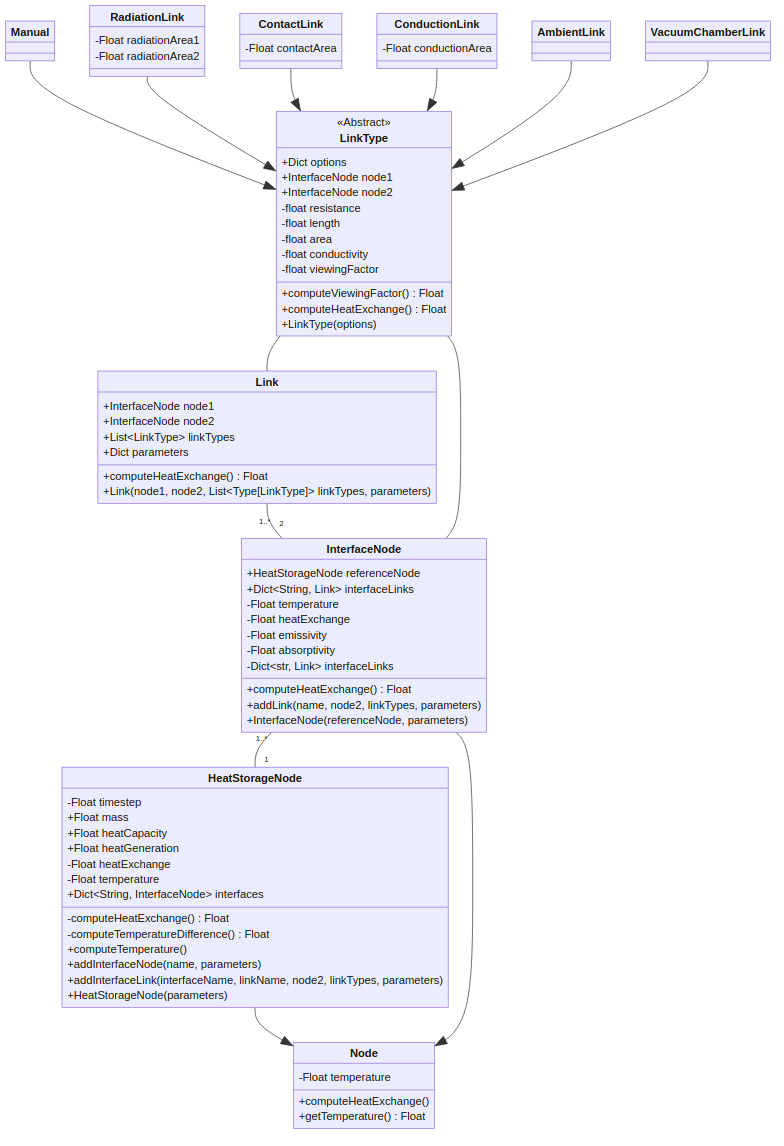
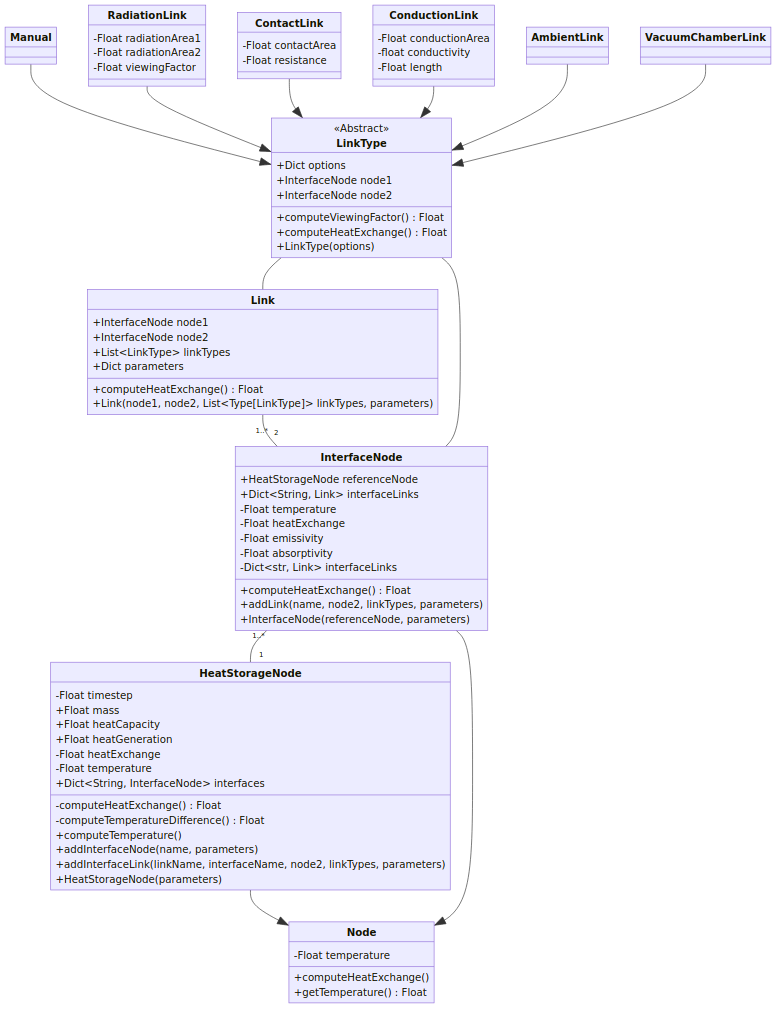
move attributes into subclasses and make non-optional

diff --git a/thermalmodel/links.py b/thermalmodel/links.py
@@ -11,12 +11,8 @@ class LinkType():
 
     def __init__(self, options: dict):
         self.options: dict = options
-        self.node1: InterfaceNode = options.get('node1')
-        self.node2: InterfaceNode = options.get('node2')
-        self._resistance: float = options.get('resistance', None)
-        self._length: float = options.get('length', None)
-        self._conductivity: float = options.get('conductivity', None)
-        self._viewingFactor: float = options.get('viewingFactor', None)
+        self.node1: InterfaceNode = options['node1']
+        self.node2: InterfaceNode = options['node2']
         print("TODO: check if node values get updated here (i.e. node is pass by reference)")  # TODO
 
     def computeViewingFator(self) -> float:
@@ -39,8 +35,9 @@ class RadiationLink(LinkType):
 
     def __init__(self, options: dict):
         super().__init__(options)
-        self._radiationArea1: float = options.get('radiationArea1')
-        self._radiationArea2: float = options.get('radiationArea2')
+        self._radiationArea1: float = options['radiationArea1']
+        self._radiationArea2: float = options['radiationArea2']
+        self._viewingFactor: float = options['viewingFactor']
 
     def computeHeatExchange(self) -> float:
         boltzman: float = 5.670374419e-8
@@ -63,11 +60,10 @@ class ContactLink(LinkType):
 
     def __init__(self, options: dict):
         super().__init__(options)
-        self._contactArea: float = options.get('contactArea')
+        self._contactArea: float = options['contactArea']
+        self._resistance: float = options['resistance']
 
     def computeHeatExchange(self) -> float:
-        assert type(self._contactArea) in (float, int)
-        assert type(self._resistance) in (float, int)
         deltaT = self.node1.getTemperature() - self.node2.getTemperature()
         heatTransferRate = - (deltaT * self._contactArea) / self._resistance
         return heatTransferRate
@@ -77,11 +73,11 @@ class ConductionLink(LinkType):
 
     def __init__(self, options: dict):
         super().__init__(options)
-        self._conductionArea: float = options.get('conductionArea')
+        self._conductionArea: float = options['conductionArea']
+        self._conductivity: float = options['conductivity']
+        self._length: float = options['length']
 
     def computeHeatExchange(self) -> float:
-        assert type(self._length) in (float, int)
-        assert type(self._conductivity) in (float, int)
         resistance = self._length / (self._conductivity * self._conductionArea)
         deltaT = self.node1.getTemperature() - self.node2.getTemperature()
         heatTransferRate = - deltaT / resistance
